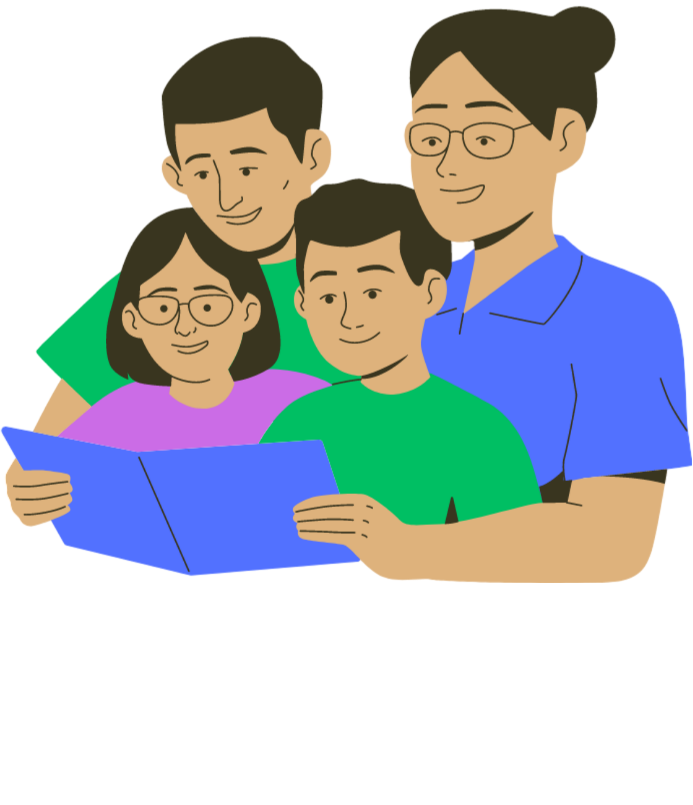
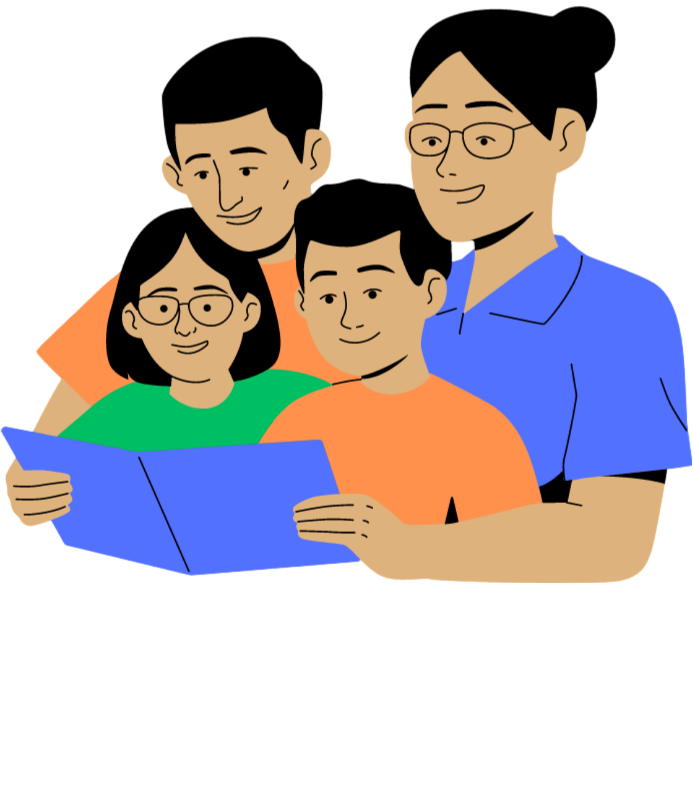
Intro slides

diff --git a/src/views/IntroPage.vue b/src/views/IntroPage.vue
@@ -11,21 +11,21 @@
           @reachEnd="isLastSlide = true"
           @slideChange="onSlideChange"
       >
-        <swiper-slide style="background-color: #1a65eb">
-          <slide image-url="/img/imageSlide1.png" title="CATALOGA">
-            CIAO 1
+        <swiper-slide style="background-color: #35374B">
+          <slide image-url="/resources/Books.png" title="CATALOGA">
+            Organizza i tuoi libri preferiti in modo semplice e veloce con Arcanaeum
           </slide>
         </swiper-slide>
 
-        <swiper-slide style="background-color: #7045ff">
-          <slide image-url="/img/imageSlide1.png" title="LEGGI">
-            CIAO 2
+        <swiper-slide style="background-color: #344955">
+          <slide image-url="/resources/Family.png" title="FAMIGLIA">
+            Leggi i riassunti dei libri scelti da te e dai tuoi amici, crea una famigla e condividi i tuoi libri preferiti
           </slide>
         </swiper-slide>
 
-        <swiper-slide style="background-color: #42d96b">
-          <slide image-url="/img/imageSlide1.png" title="SCOPRI">
-            CIAO 3
+        <swiper-slide style="background-color: #50727B">
+          <slide image-url="/resources/Discover.png" title="SCOPRI">
+            Scopri migliaia di libri e autori grazie alla nostra sezione dei consigli
           </slide>
         </swiper-slide>
       </swiper>

diff --git a/src/components/slides/SlideComponent.vue b/src/components/slides/SlideComponent.vue
@@ -55,8 +55,11 @@ defineProps({
 
 .text {
   text-align: center;
-  margin-bottom: 2vh;
+  margin-bottom: 6vh;
+  margin-left: 6vw;
+  margin-right: 6vw;
+  color: mintcream;
   font-family: 'Segoe UI Semibold';
-  font-size: 2vh;
+  font-size: 2.3vh;
 }
 </style>
